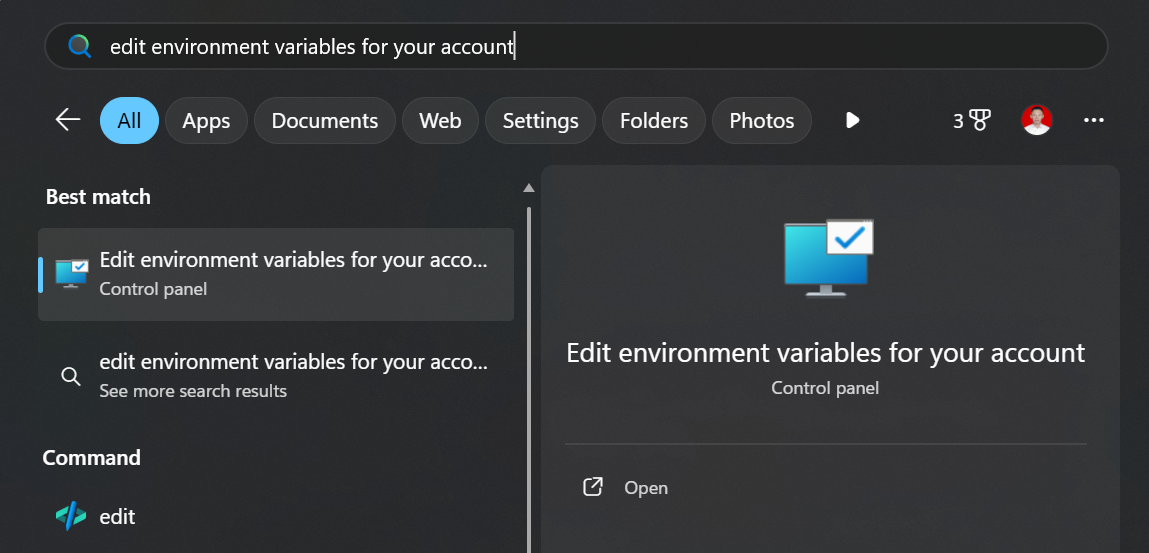
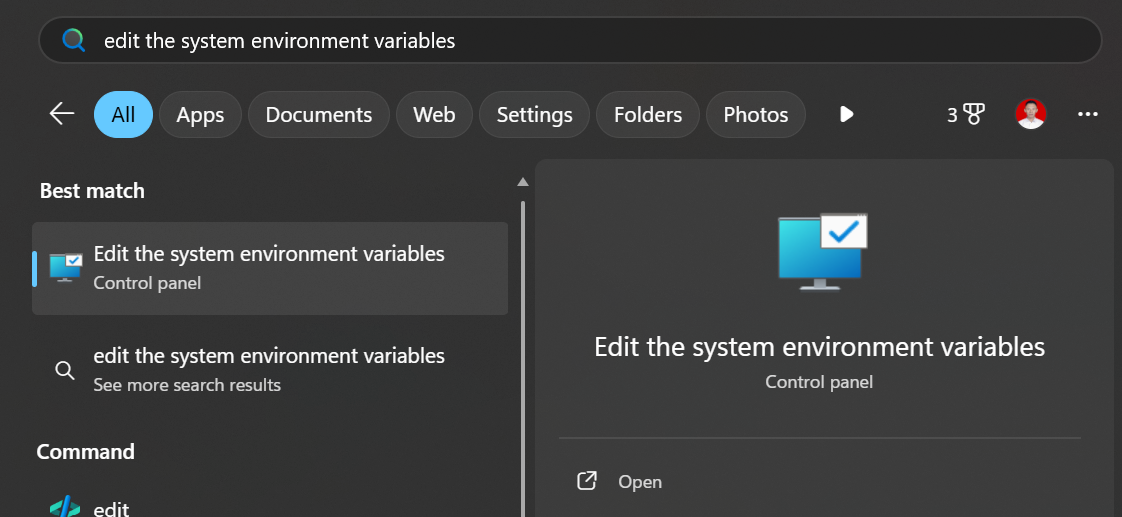
add ss environmet

diff --git a/src/instalasi/README.md b/src/instalasi/README.md
@@ -103,9 +103,11 @@ Tahapan:
 
 1. Klik Windows, ketik:
 ```text
-edit environment variables for your account
+edit the system environment variables
 ```
-2. 
+![Java Version](images/07-environment.png)
+
+2. Lalu klik open
 
 ---
 
